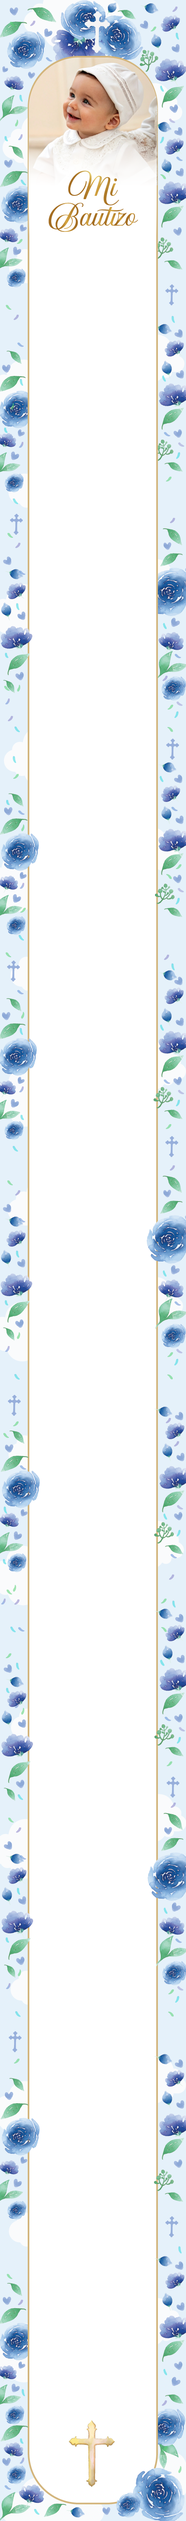
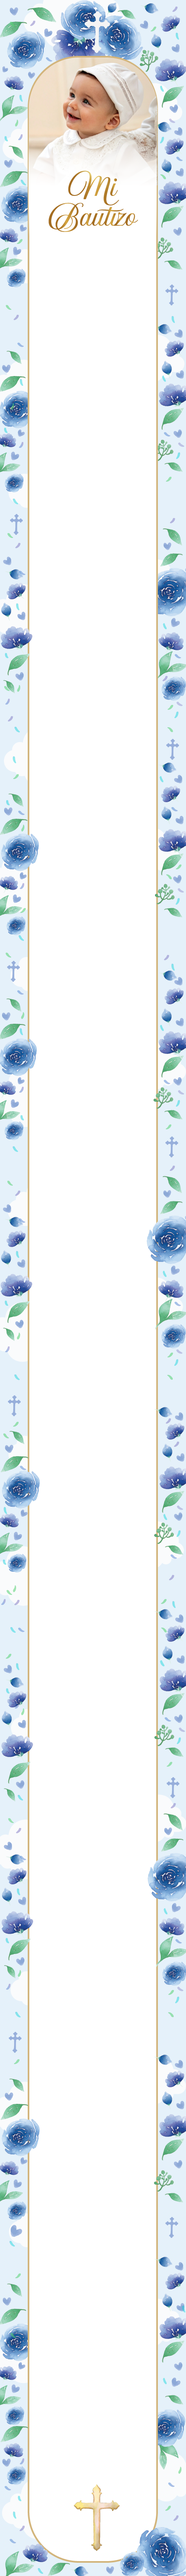
dulce_Aventura

Changed region(s): [[0.28, 0.0, 1.0, 1.0], [0.0, 0.0, 0.3422, 1.0]]

diff --git a/demo_invitaciones/Bautizos/dulce_aventura_nino/invitacion.html b/demo_invitaciones/Bautizos/dulce_aventura_nino/invitacion.html
@@ -21,6 +21,8 @@
         body {
             margin: 0;
             padding: 0;
+			width: 100%;
+            overflow-x: hidden;
             font-family: 'Gabriola', serif;
             background-color: #fefefe;
         }
@@ -28,14 +30,16 @@
         /* Fondo fijo */
        .background {
         background-image: url('img/fondo.png'); /* Ruta de tu imagen */
+		background-position: top center;
         background-repeat: no-repeat; /* Evita que se repita */
         background-size: 450px 5935px; /* Tamaño exacto */
 		background-position: top center; /* Centrado en la parte superior */
-        background-position: top center; /* Centrado en la parte superior */
-        width: 450px; /* Ancho fijo */
-        height: 5935px; /* Altura exacta */
+        width: 100%; /* Ancho fijo */
+		max-width: 450px; /* Ancho máximo */
+        min-height: 5935px; /* Altura exacta */
         margin: 0 auto;
         animation: slideIn 1.5s ease-out;
+		position: relative;
     }
 
         @keyframes slideIn {

diff --git a/demo_invitaciones/Bautizos/bendicion_celeste_nino/invitacion.html b/demo_invitaciones/Bautizos/bendicion_celeste_nino/invitacion.html
@@ -38,11 +38,11 @@
         background-image: url('img/fondo.png'); /* Ruta de tu imagen */
 		background-position: top center;
         background-repeat: no-repeat; /* Evita que se repita */
-        background-size: 450px 6089px; /* Tamaño exacto */
+        background-size: 450px 6220px; /* Tamaño exacto */
         background-position: top center; /* Centrado en la parte superior */
         width: 100%; /* Ancho fijo */
 		max-width: 450px; /* Ancho máximo */
-        min-height: 6089px; /* Altura exacta */
+        min-height: 6220px; /* Altura exacta */
         margin: 0 auto;
         animation: slideIn 1.5s ease-out;
 	    position: relative;
